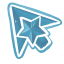
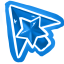
cursor update !!
added ini the new cursor
calculaytehours() now works !!

diff --git a/shop.js b/shop.js
@@ -7,8 +7,10 @@ const s_goal = document.getElementById("submit-item");
 const shop_output = document.getElementById("shop-output");
 
 const shop_form = document.getElementById("item-form");
+const clear = document.getElementById("clear-bought");
 
 let items = JSON.parse(localStorage.getItem("items")) || [];
+let items_bought = JSON.parse(localStorage.getItem("items_bought")) || [];
 
 
 if (n_goal){
@@ -27,6 +29,13 @@ if (s_goal){
         uploadItem();
     });
 }
+
+if (clear){
+    clear.addEventListener("click", function() {
+        clearBought();
+    });
+}
+
 function showItemPopup(isVisible) {
     const itemPopup = document.querySelector(".item-popup");
     const itemPopupOverlay = document.querySelector(".popup-overlay");
@@ -48,7 +57,6 @@ function uploadItem() {
     const entry = {item_name, item_value, details, id};
 
     items.push(entry);
-
     localStorage.setItem("items", JSON.stringify(items));
 
     displayItems(items);
@@ -90,7 +98,7 @@ function displayItems(items) {
             shop_output.appendChild(item);
  
             buy.addEventListener("click", () => {
-                buyItem(data.id, data.value, data);
+                buyItem(data.id, data.item_value, data);
             });
 
         });
@@ -98,17 +106,30 @@ function displayItems(items) {
     
 }
 
+function clearBought(){
+    items_bought = [];
+    localStorage.setItem("items_bought", JSON.stringify(items_bought));
+}
 
-function buyItem(id, value, element) {
+function buyItem(id) {
         // remove from localStorage
+        const item = items.find(i => i.id === id);
 
-        hours_display-=value;
+
+        if (item){
+            let items_bought = JSON.parse(localStorage.getItem("items_bought")) || [];
+            items_bought.push(item);
+            localStorage.setItem("items_bought", JSON.stringify(items_bought));
+        }
+
+
         items = items.filter(session => session.id !== id);
         localStorage.setItem("items", JSON.stringify(items));
 
         displayItems(items);
+        calculatehours();
         // updatehours(sessions);
         // remove from UI
-        element.remove;
 }
+
 displayItems(items);

diff --git a/script.js b/script.js
@@ -38,7 +38,7 @@ if (s_session_btn){
         event.preventDefault();
         showSessionPopup(false);
         uploadSession();
-        updatehours(sessions);
+        calculatehours();
     });
 }
 
@@ -164,17 +164,41 @@ function displayEntries(entries) {
     
 }
 
-function updatehours(entries){
+function addhours(entries){
     const hour_display = document.getElementById("hours-logged");
-    let hours_total =0;
+    let total =0;
     
     if (hour_display){
         entries.forEach(entry =>{
-            hours_total += Number(entry.hours);
+            total += Number(entry.hours);
         })
     }
+    return Number(total);
+}
+
+function subtracthours(bought){
+    const hour_display = document.getElementById("hours-logged");
+    let total=0;
+    
+    if (hour_display){
+        bought.forEach(item =>{
+            total += Number(item.item_value);
+        })
+    }
+    return Number(total);
+}
+
+function calculatehours(){
+    const hour_display = document.getElementById("hours-logged");
+    let items_bought = JSON.parse(localStorage.getItem("items_bought")) || [];
+
+    let added = addhours(sessions);
+    let subtracted = subtracthours(items_bought);
+
+    hours_total = added-subtracted;
+    hour_display.innerHTML = Number(hours_total);
+
     localStorage.setItem("hours_total", JSON.stringify(hours_total));
-    hour_display.innerHTML = hours_total;
 }
 
 function deleteSession(id) {
@@ -185,9 +209,20 @@ function deleteSession(id) {
 
         genCourseBtns();
         displayEntries(sessions);
-        updatehours(sessions);
+        calculatehours();
         // remove from UI
 }
 
+
+
+document.addEventListener("keydown", function(event) {
+      // event.key gives the key pressed
+    if (event.key === 'Enter'){
+        event.preventDefault();
+    }
+});
+
+
+
 displayEntries(sessions);
-updatehours(sessions);
+calculatehours();

diff --git a/shop.html b/shop.html
@@ -41,12 +41,15 @@
                 <option disabled selected>Select an option</option>
             </select>
             <button id = "convert"> convert horus</button> -->
-            <button id = "new-item"> new goal !!</button>
-             
-            <div class = "shop-output" id = "shop-output"> shop items... </div>
+            <button id = "new-item"> new goal !!</button> 
+            <button id = "clear-bought"> bought </button>
+
             <p class = "hours-logged" id = "hours-logged"> </p>  
+            <div class = "shop-output"> items... </div>
         </div>
         
+        <div class = "shop-output" id = "shop-output"> </div>
+
         <div class = "popup-overlay"></div>
         <form class = "item-popup" id = "session-form">
             <h3 class = "sh1"> New Goal/Item </h3>

diff --git a/homepage.css b/homepage.css
@@ -46,6 +46,7 @@ body{
 }
 
 .sidebar {
+    cursor: url("images/bcursor1.png"), auto;
     margin: 0;
     opacity: 0;  
 
@@ -56,6 +57,7 @@ body{
 }
 
 .sidebar a{
+    cursor: url("images/bcursor1.png"), auto;
     text-align: left;
     display: block;
 
@@ -134,6 +136,7 @@ body{
 }
 
 .course-set{
+    cursor: url("images/bcursor1.png"), auto;
     z-index: 15;
     position: absolute;
     right: 0%;
@@ -147,6 +150,7 @@ body{
 }
 
 .course-tag{
+    cursor: url("images/bcursor1.png"), auto;
     overflow-wrap: break-word;
     padding: auto;
     margin: 0;

diff --git a/shop.css b/shop.css
@@ -71,11 +71,11 @@
 
 .shop-output{
     cursor: url("images/bcursor1.png"), pointer;
-    /* display:grid;
+    display:grid;
     padding: 1vw;
     grid-template-columns: repeat(3, minmax(10px, 100vw));
     gap: 1em;
-    line-height: 1em; */
+    line-height: 1em;
     width: 100%;
     color:black;
 }

diff --git a/styles.css b/styles.css
@@ -53,6 +53,7 @@ body{
 }
 
 button{
+    cursor: url("images/bcursor1.png"), auto;
     font-family: 'Satoshi-Black', sans-serif;
     background-color: var(--accent);
     color: white;

diff --git a/session.css b/session.css
@@ -8,6 +8,7 @@
     --light-bg: #f0f4f8;
 }
 
+
 .session-textbox{
     width: 80%;
     padding: 0.5rem;
